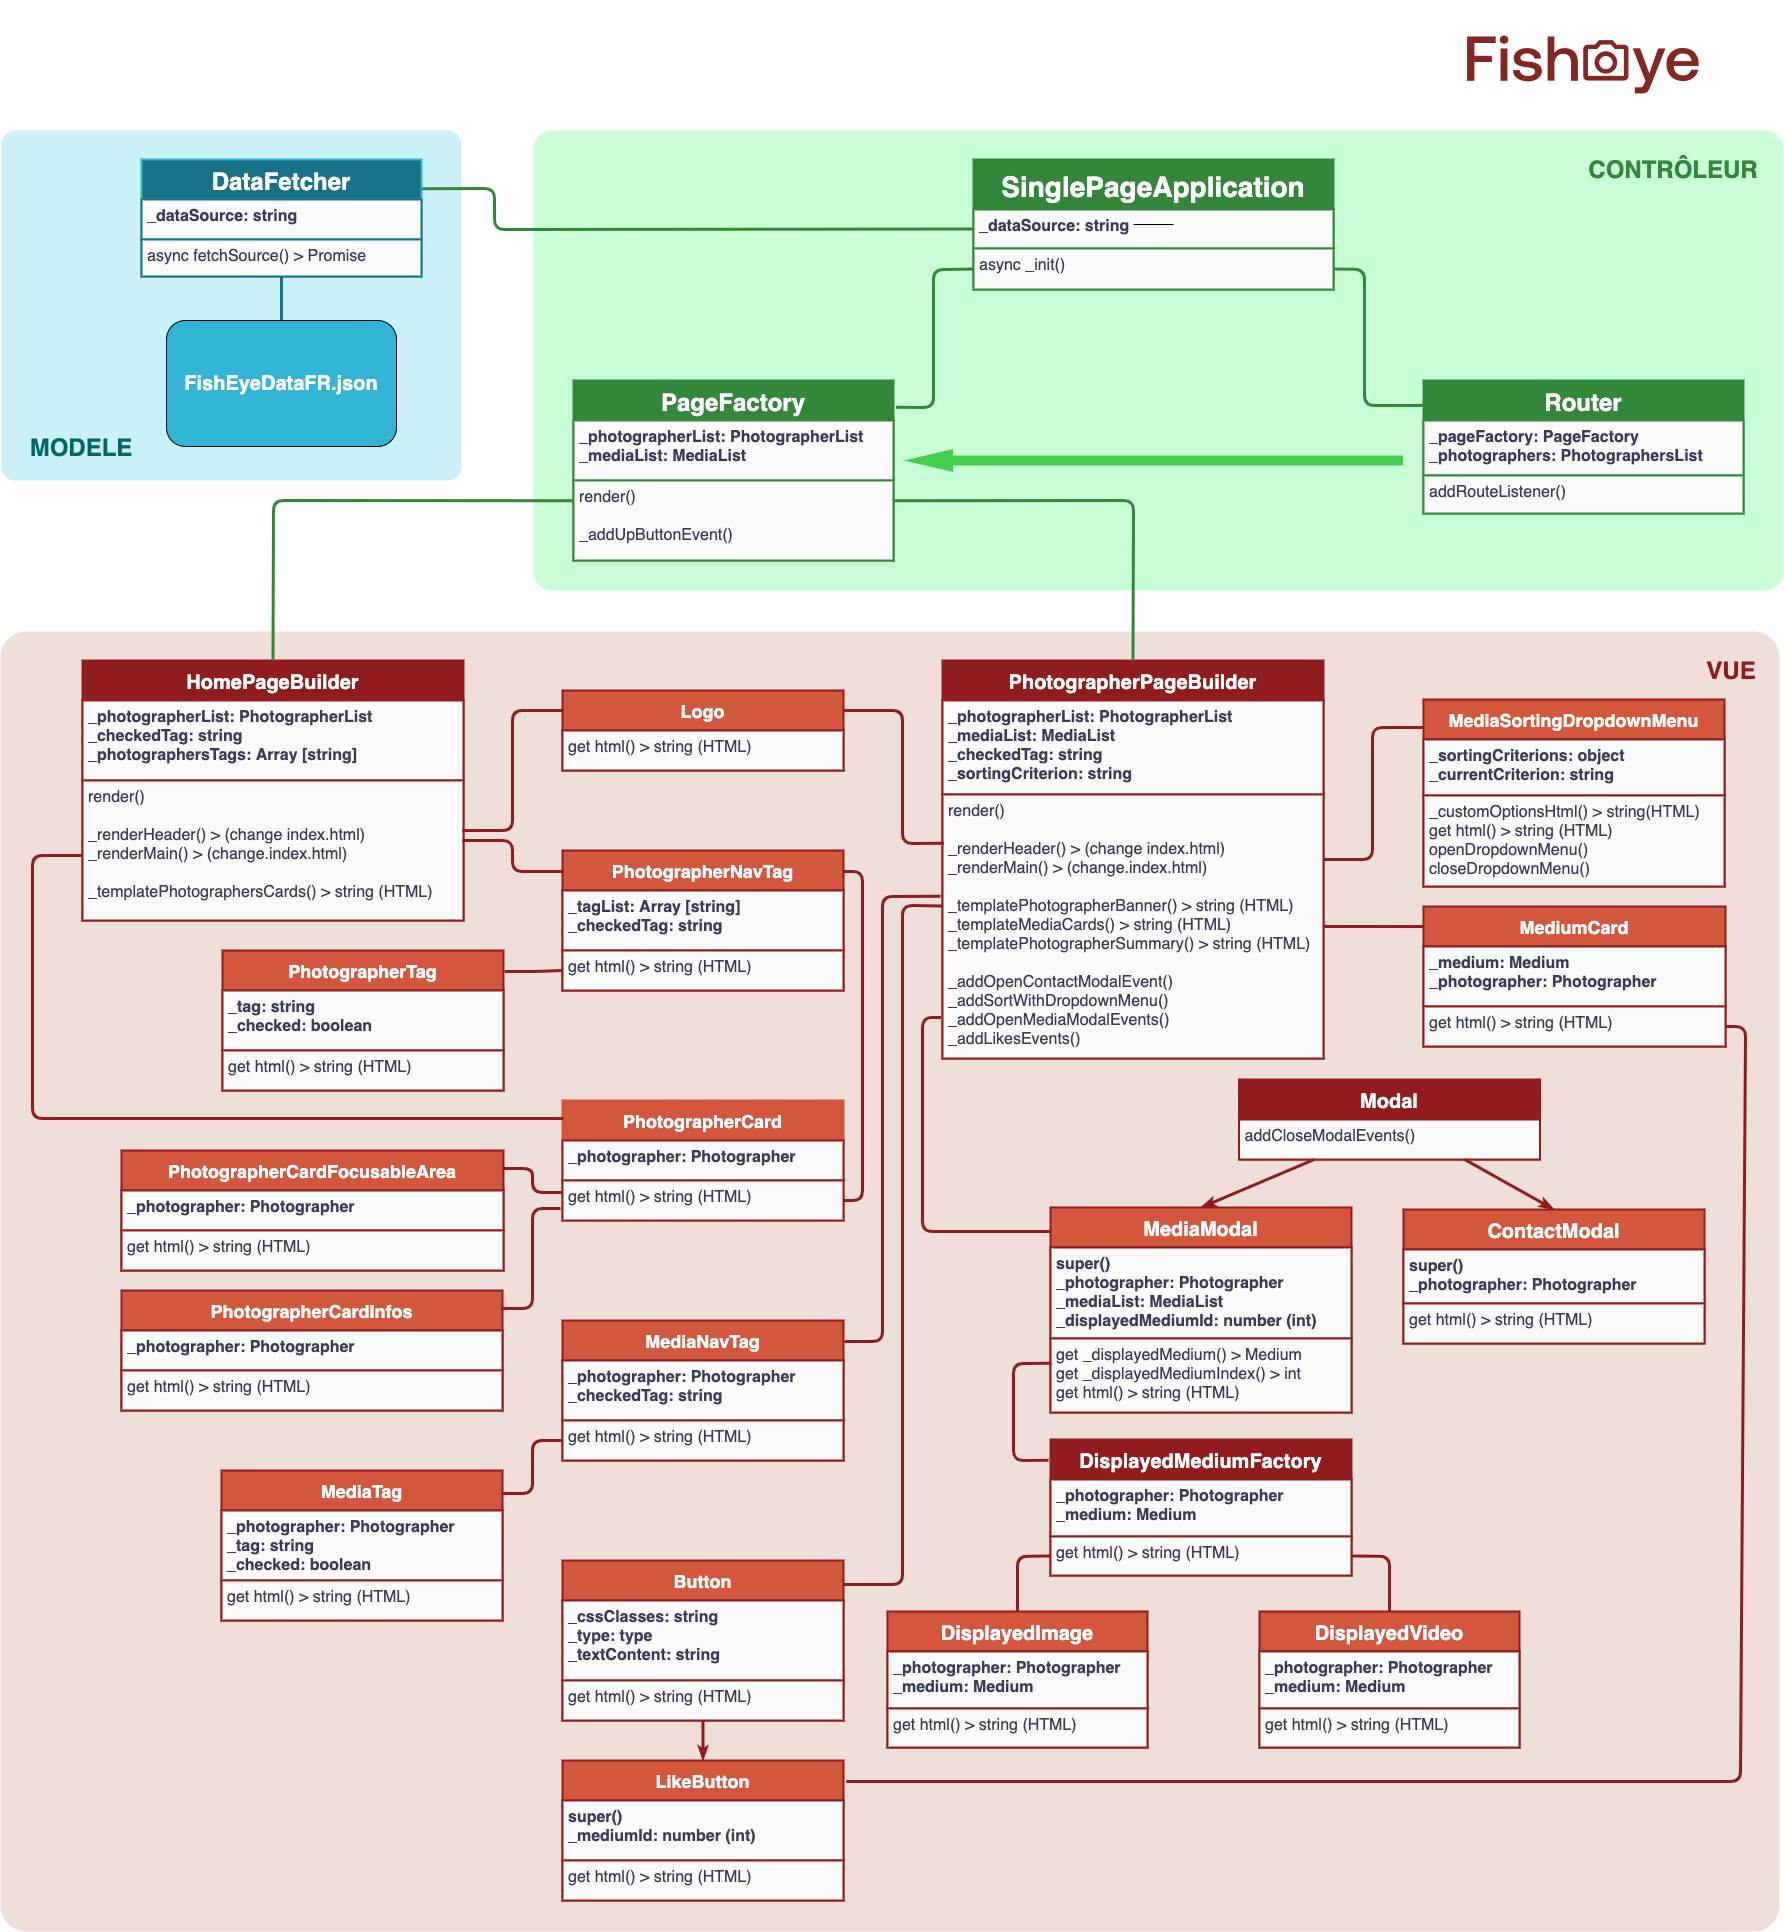
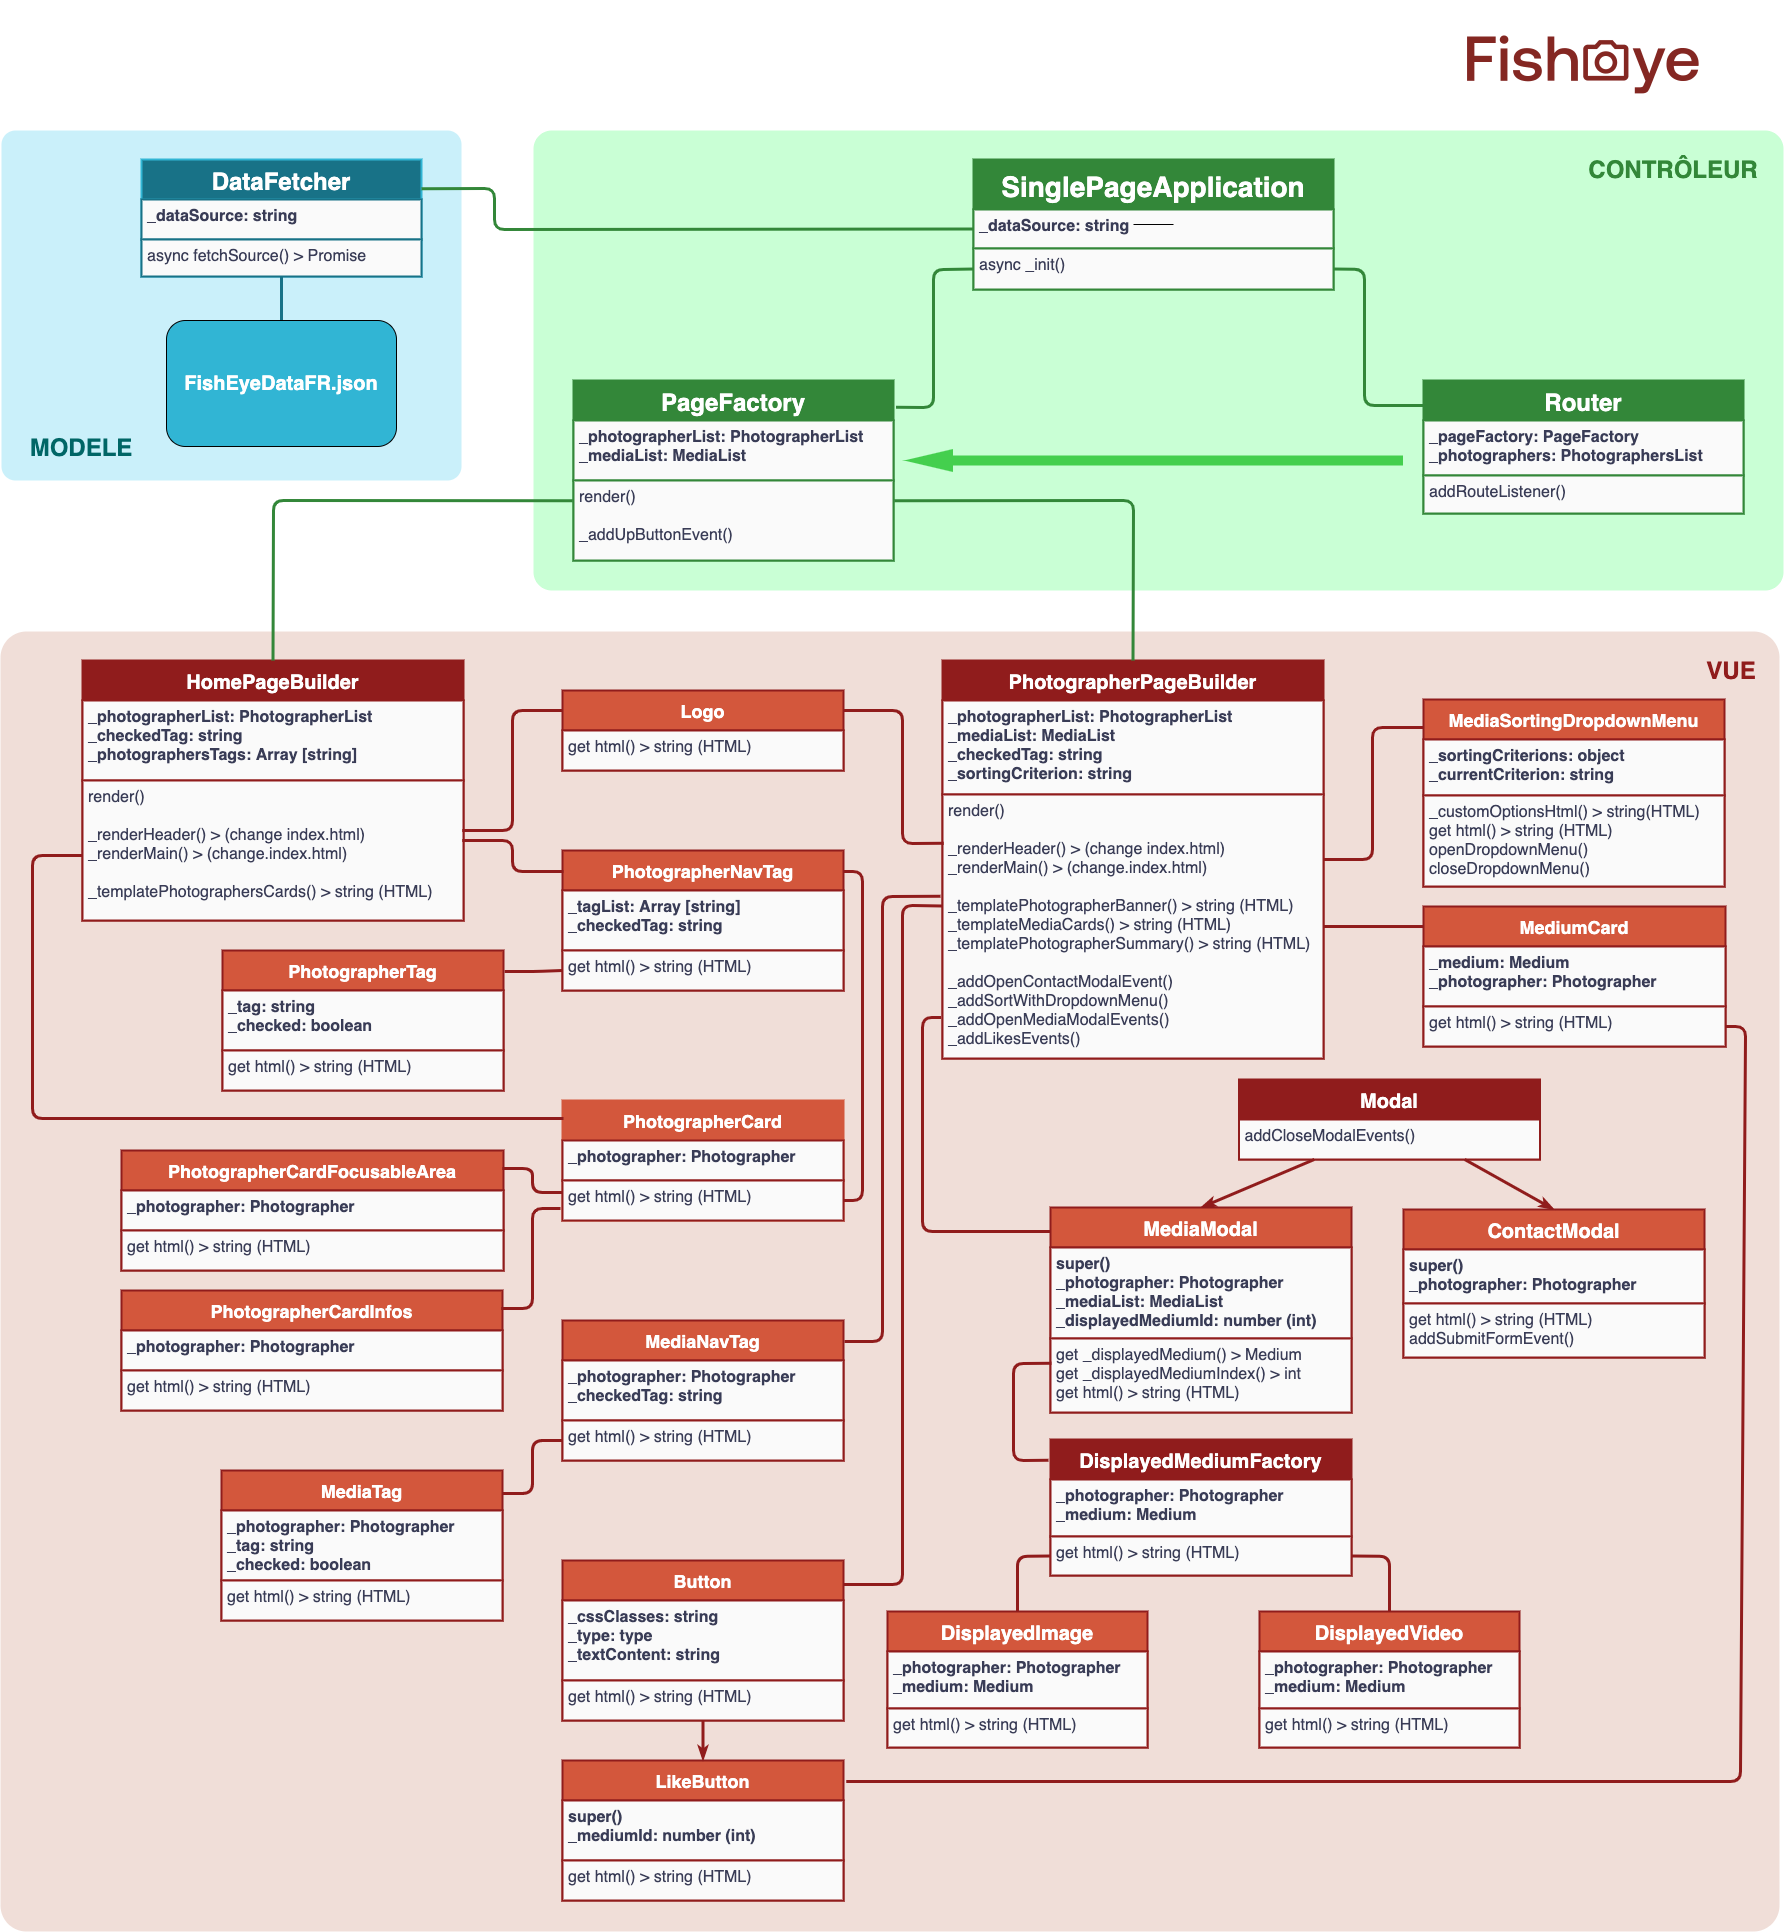
feature: submit the contact form displays user inputs in console

diff --git a/js/pages/components/modals.js b/js/pages/components/modals.js
@@ -38,26 +38,47 @@ export class ContactModal extends Modal {
               Contactez-moi<br />
               ${this._photographer.name}
             </h1>
-            <form>
+            <form id="contact-form" action="index.html" method=post"">
               <label for="first-name">
                 Nom
               </label>
-              <input type="text" id="first-name" />
+              <input type="text" id="first-name" required />
               <label for="last-name">
                 Prénom
               </label>
-              <input type="text" id="last-name" />
+              <input type="text" id="last-name" required />
               <label for="email">
                 Email
               </label>
-              <input type="email" id="email" />
+              <input type="email" id="email" required />
               <label for="message">
                 Votre message
               </label>
-              <textarea id="message" rows="6" cols="60">
-              </textarea>
-            </form>
-            ${submitButtonHtml}`;
+              <textarea id="message" rows="6" cols="60" required></textarea>
+              ${submitButtonHtml}
+            </form>`;
+  }
+
+  addSubmitFormEvent() {
+    document.getElementById("contact-form").onsubmit = (e) => {
+      e.preventDefault();
+
+      const firstName = document.getElementById("first-name");
+      const lastName = document.getElementById("last-name");
+      const email = document.getElementById("email");
+      const message = document.getElementById("message");
+
+      // TO DO: add inputs validations and custom errorm message
+
+      const userInputs = {
+        firstName: firstName.value,
+        lastName: lastName.value,
+        email: email.value,
+        message: message.value,
+      };
+
+      console.log("User inputs to POST to back-end:", userInputs);
+    };
   }
 }
 

diff --git a/js/pages/photographerPageBuilder.js b/js/pages/photographerPageBuilder.js
@@ -156,6 +156,7 @@ export class PhotographerPageBuilder {
       modalWindow.innerHTML = contactModal.html;
 
       contactModal.addCloseModalEvents();
+      contactModal.addSubmitFormEvent();
 
       modalBackground.classList.add("displayed");
     };
